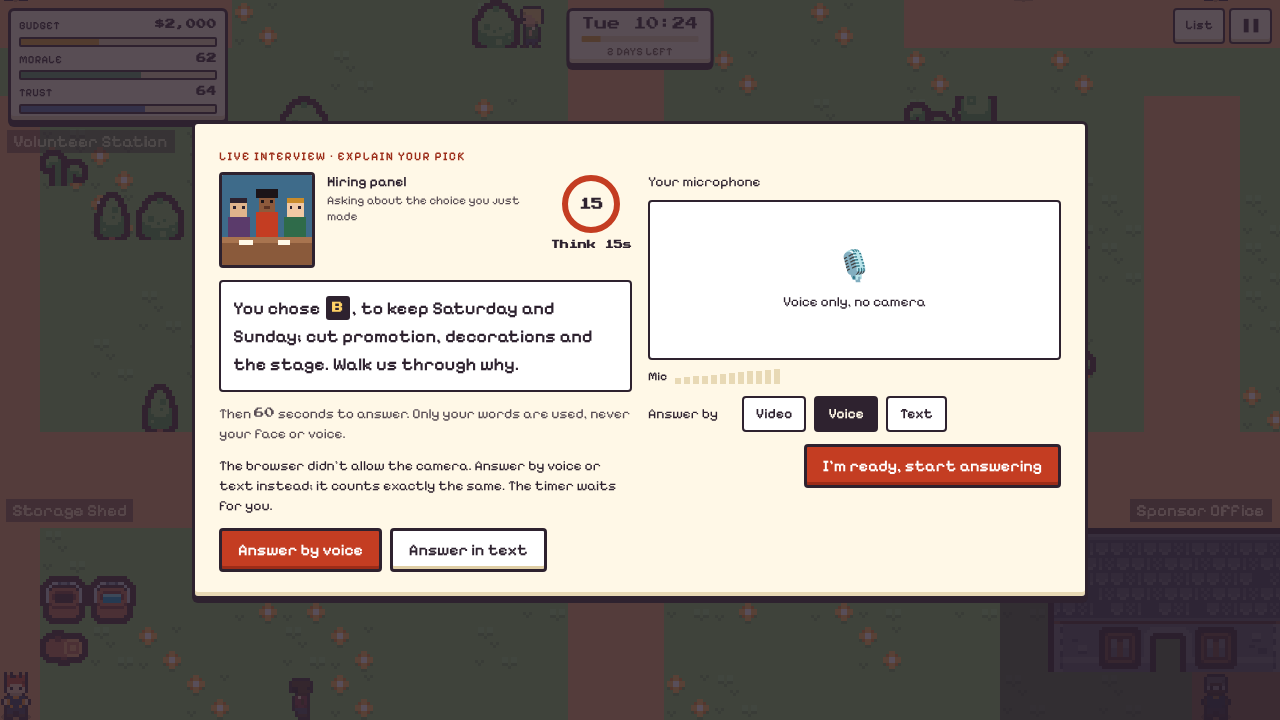
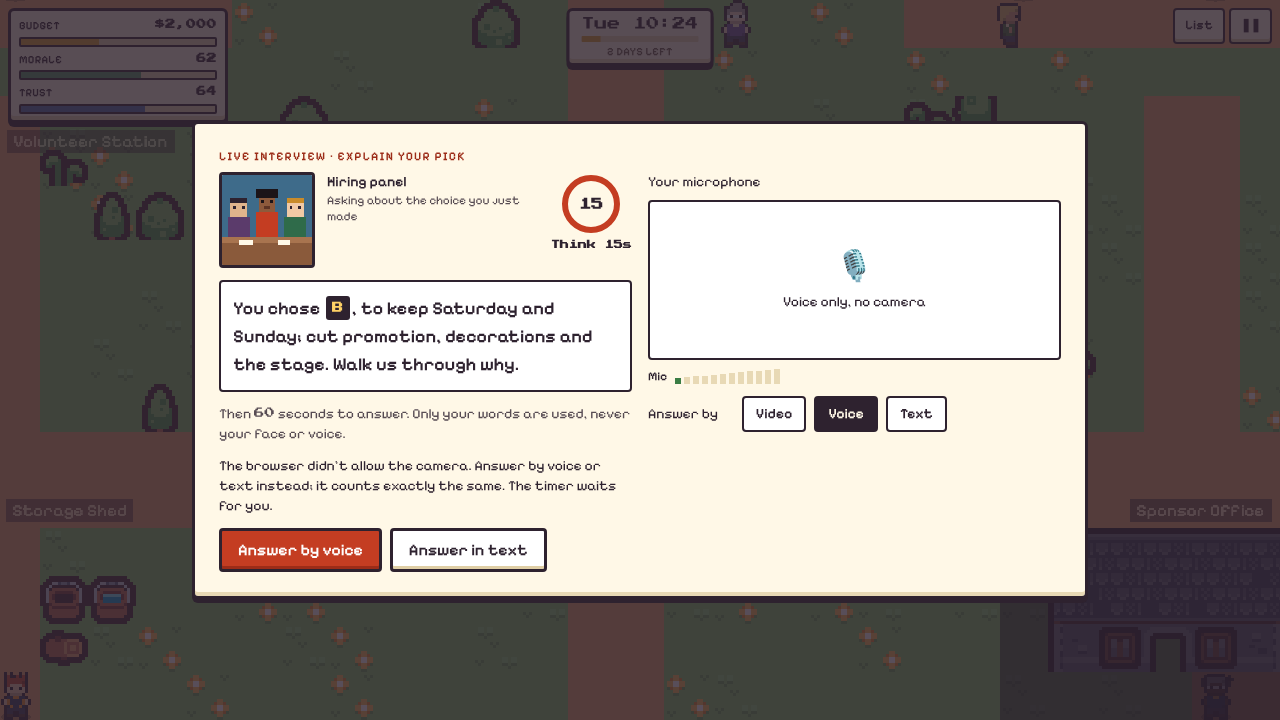
Checkpoint: one primary per state; 'start answering' waits while the voice-or-text choice shows
Claude-Session: https://claude.ai/code/session_0154mYPUEnFKQvVKtNCw59qM

diff --git a/tests/e2e/checkpoint-media.spec.ts b/tests/e2e/checkpoint-media.spec.ts
@@ -251,6 +251,8 @@ test("game: no camera means a calm switch to voice, and no mic means text", asyn
   await page.evaluate(() => ((window as unknown as { __noMic?: boolean }).__noMic = true));
   await cp.locator('label:has(input[value="video"])').click();
   await expect(cp).toHaveAttribute("data-mode", "text", { timeout: 15_000 });
+  // No mic either: one tap on "Answer in text", then start.
+  await cp.getByTestId("fallback-text").click();
   await cp.getByRole("button", { name: /start answering/i }).click();
   await cp.getByTestId("answer-text").fill("I took logistics myself so the team stayed happy.");
   await cp.getByRole("button", { name: "Done" }).click();
@@ -367,6 +369,8 @@ test("demo path: camera denied, calm one-line note, one tap to voice or text, ti
   await expect(cp.getByTestId("fallback-voice")).toBeVisible();
   await expect(cp.getByTestId("fallback-text")).toBeVisible();
   await expect(cp.getByTestId("fallback-voice")).toBeInViewport();
+  // One primary action at a time: "start answering" waits until a mode is picked.
+  await expect(cp.getByRole("button", { name: /start answering/i })).toHaveCount(0);
   await page.waitForTimeout(2000);
   expect(await thinkLeft(page)).toBe(15);
   await page.waitForTimeout(500);
@@ -376,6 +380,7 @@ test("demo path: camera denied, calm one-line note, one tap to voice or text, ti
   await cp.getByTestId("fallback-voice").click();
   await expect(cp).toHaveAttribute("data-mode", "voice");
   await expect(cp.getByTestId("device-choice")).toHaveCount(0);
+  await expect(cp.getByRole("button", { name: /start answering/i })).toBeFocused();
   await expect.poll(() => thinkLeft(page), { timeout: 5000 }).toBeLessThan(15);
 });
 

diff --git a/components/checkpoint/Checkpoint.tsx b/components/checkpoint/Checkpoint.tsx
@@ -321,7 +321,8 @@ export function Checkpoint(p: Props) {
     </button>
   );
 
-  const startBtn = (
+  // One primary per state: while the voice-or-text choice shows, it is the only way forward.
+  const startBtn = !choosing && (
     <button onClick={() => void beginAnswer()} className={s.primary} autoFocus>
       I&apos;m ready, start answering
     </button>
